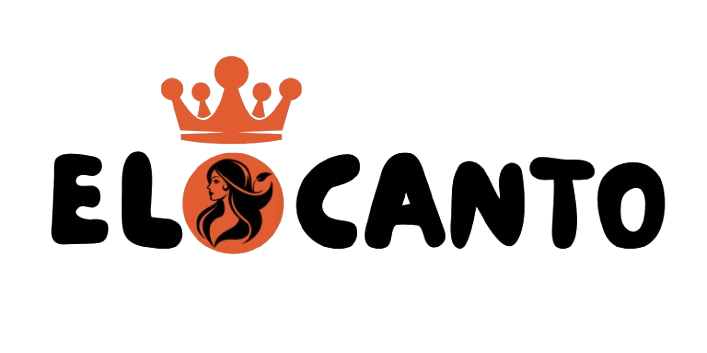
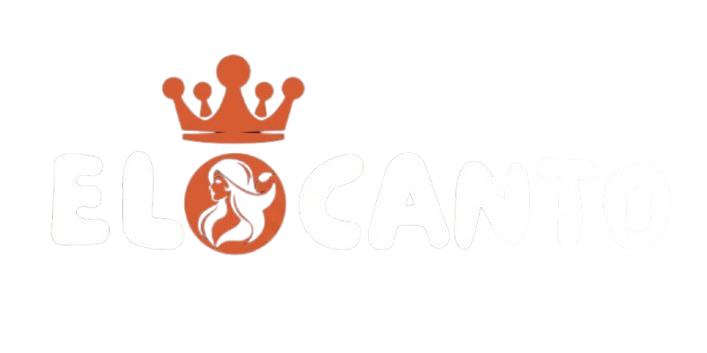
neww

Changed region(s): [[0.0622, 0.1558, 0.9646, 0.7479]]

diff --git a/backend/utils/watermarkUtils.js b/backend/utils/watermarkUtils.js
@@ -13,10 +13,10 @@ export const WATERMARK_POSITION = {
 };
 
 const DEFAULT_OPTIONS = {
-  position: WATERMARK_POSITION.BOTTOM_RIGHT,
-  watermarkWidth: 140, // 120-150px range
-  opacity: 0.85,
-  padding: 20,
+  position: WATERMARK_POSITION.CENTER,
+  watermarkWidth: 400, // Increased as requested
+  opacity: 0.8,
+  padding: 0,
 };
 
 export const addWatermark = async (inputPath, outputPath, options = {}) => {
@@ -34,18 +34,43 @@ export const addWatermark = async (inputPath, outputPath, options = {}) => {
     const imageWidth = metadata.width || 1200;
     const imageHeight = metadata.height || 800;
 
-    // Dynamic Scaling: Watermark should not exceed 30% of image width
-    const targetWmWidth = Math.min(opts.watermarkWidth, Math.floor(imageWidth * 0.3));
+    const targetWmWidth = Math.min(opts.watermarkWidth, Math.floor(imageWidth * 0.6));
     
-    // Maintain transparency and resize logo
-    const wmBuffer = await sharp(WATERMARK_PATH)
+    // Scale logo
+    const logoBuffer = await sharp(WATERMARK_PATH)
       .resize({ width: targetWmWidth, withoutEnlargement: true })
       .ensureAlpha()
       .toBuffer();
 
-    const wmMeta = await sharp(wmBuffer).metadata();
-    const wmWidth = wmMeta.width || opts.watermarkWidth;
-    const wmHeight = wmMeta.height || 50;
+    const logoMeta = await sharp(logoBuffer).metadata();
+    const lWidth = logoMeta.width || targetWmWidth;
+    const lHeight = logoMeta.height || 100;
+
+    // Create Full-Width Background Strip (Pati)
+    const bgWidth = imageWidth;
+    const bgHeight = Math.floor(lHeight * 1.15); // Tighter fit around logo as requested
+
+    const bgBuffer = await sharp({
+      create: {
+        width: bgWidth,
+        height: bgHeight,
+        channels: 4,
+        background: { r: 0, g: 0, b: 0, alpha: 0.75 }
+      }
+    })
+    .blur(8) // Increased blur for softer, premium look
+    .png()
+    .toBuffer();
+
+    // Composite Logo onto Strip
+    const finalWmBuffer = await sharp(bgBuffer)
+      .composite([{ input: logoBuffer, gravity: 'center' }])
+      .png()
+      .toBuffer();
+
+    const wmMeta = await sharp(finalWmBuffer).metadata();
+    const wmWidth = wmMeta.width || bgWidth;
+    const wmHeight = wmMeta.height || bgHeight;
 
     let gravity = 'southeast';
     let left = imageWidth - wmWidth - opts.padding;
@@ -89,11 +114,20 @@ export const addWatermark = async (inputPath, outputPath, options = {}) => {
     };
   }
 
-  // Optimize and Save
+  // Optimize and Save with SEO Obfuscation
+  // 1. Subtle modulation (brightness/saturation) to change file signature
+  // 2. Tiny blur to soften pixels
+  // 3. 0.1 degree rotation to re-sample the pixel grid (unique fingerprint)
   const outputBuffer = await sharp(inputPath)
     .withMetadata()
+    .modulate({
+      brightness: 1.02, 
+      saturation: 1.05
+    })
+    .blur(0.5)
+    .rotate(0.1, { background: { r: 0, g: 0, b: 0, alpha: 0 } })
     .composite([compositeOptions])
-    .webp({ quality: 80, effort: 6 }) // Efficient compression
+    .webp({ quality: 80, effort: 6 }) 
     .toBuffer();
 
   // Ensure output directory exists (Final check)
@@ -172,17 +206,41 @@ export const addWatermarkToBuffer = async (imageBuffer, options = {}) => {
     const imageWidth = metadata.width || 1200;
     const imageHeight = metadata.height || 800;
 
-    // Dynamic Scaling: Watermark should not exceed 30% of image width
-    const targetWmWidth = Math.min(opts.watermarkWidth, Math.floor(imageWidth * 0.3));
+    const targetWmWidth = Math.min(opts.watermarkWidth, Math.floor(imageWidth * 0.6));
 
-    const wmBuffer = await sharp(WATERMARK_PATH)
+    const logoBuffer = await sharp(WATERMARK_PATH)
       .resize({ width: targetWmWidth, withoutEnlargement: true })
       .ensureAlpha()
       .toBuffer();
 
-    const wmMeta = await sharp(wmBuffer).metadata();
-    const wmWidth = wmMeta.width || opts.watermarkWidth;
-    const wmHeight = wmMeta.height || 50;
+    const logoMeta = await sharp(logoBuffer).metadata();
+    const lWidth = logoMeta.width || targetWmWidth;
+    const lHeight = logoMeta.height || 100;
+
+    // Create Full-Width Background Strip (Pati)
+    const bgWidth = imageWidth;
+    const bgHeight = Math.floor(lHeight * 1.15);
+
+    const bgBuffer = await sharp({
+      create: {
+        width: bgWidth,
+        height: bgHeight,
+        channels: 4,
+        background: { r: 0, g: 0, b: 0, alpha: 0.75 }
+      }
+    })
+    .blur(8)
+    .png()
+    .toBuffer();
+
+    const finalWmBuffer = await sharp(bgBuffer)
+      .composite([{ input: logoBuffer, gravity: 'center' }])
+      .png()
+      .toBuffer();
+
+    const wmMeta = await sharp(finalWmBuffer).metadata();
+    const wmWidth = wmMeta.width || bgWidth;
+    const wmHeight = wmMeta.height || bgHeight;
 
     let left = opts.padding;
     let top = opts.padding;
@@ -212,11 +270,12 @@ export const addWatermarkToBuffer = async (imageBuffer, options = {}) => {
     }
 
     compositeOptions = {
-      input: wmBuffer,
+      input: finalWmBuffer,
       left,
       top,
     };
   } else {
+
     const text = opts.text || getSiteName();
     const metadata = await sharp(imageBuffer).metadata();
     const fontSize = Math.max(16, Math.floor(metadata.width / 40));
@@ -229,8 +288,15 @@ export const addWatermarkToBuffer = async (imageBuffer, options = {}) => {
     };
   }
 
+  // SEO Obfuscation & Final watermark
   return sharp(imageBuffer)
     .withMetadata()
+    .modulate({
+      brightness: 1.01,
+      saturation: 1.03
+    })
+    .blur(0.5)
+    .rotate(0.05, { background: { r: 0, g: 0, b: 0, alpha: 0 } })
     .composite([compositeOptions])
     .webp({ quality: 85 })
     .toBuffer();
